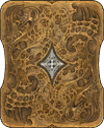
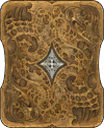
jeu des paires

diff --git a/jeu-des-paires/assets/js/script.js b/jeu-des-paires/assets/js/script.js
@@ -58,7 +58,7 @@ function play(){
     ga.style.width = gaWidth+"px";
     ga.innerHTML = "";
     for (let i = 1; i <= numCard; i++){
-        ga.innerHTML += `<img src="assets/img/versocard.png" id="c${i}" />`;
+        ga.innerHTML += `<img src="assets/img/pversocard.png" id="c${i}" />`;
         cardDispo[i-1]=i;
     }
     for (let i=0;i<numCard;i++){
@@ -75,10 +75,10 @@ function play(){
     function update(position){
             switch(front[position]){
               case 0:
-                      document.getElementById(`c${position+1}`).src="assets/img/versocard.png";
+                      document.getElementById(`c${position+1}`).src="assets/img/pversocard.png";
                       break;
               case 1:
-                      document.getElementById(`c${position+1}`).src="assets/img/"+cardDispo[position]+".png";
+                      document.getElementById(`c${position+1}`).src="assets/img/p"+cardDispo[position]+".png";
                       break;
               case -1:
                       document.getElementById(`c${position+1}`).src="assets/img/vide.png";
